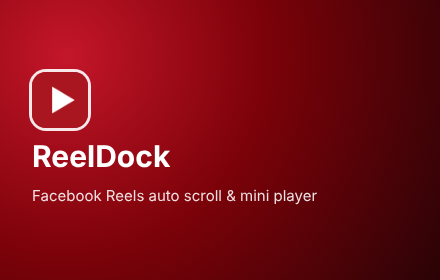
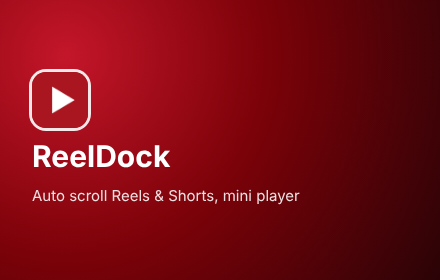
docs: add real-page store screenshots and drop Facebook-only wording

Changed region(s): [[0.0591, 0.6571, 0.7386, 0.7429]]

diff --git a/store-assets/compose.html b/store-assets/compose.html
@@ -1,7 +1,7 @@
 <!doctype html>
 <!--
     Store listing images, composed from the raw captures in ./raw (made by scripts/store-screenshots.mjs).
-    Open with ?shot=1|2|3|4|5|tile and screenshot at 1280×800 (tile: 440×280).
+    Open with ?shot=1|2|3|4|5|6|7|8|tile and screenshot at 1280×800 (tile: 440×280).
 -->
 <html lang="en">
     <head>
@@ -182,25 +182,26 @@
                     <img class="shot" src="raw/popup-dark-cropped.png" style="left:920px;top:150px;width:300px" />
                     ${brand}`,
                 4: (() => {
-                    // Show the right part of the captured Reels page inside a window, and ring the button.
-                    const crop = { x: 330, y: 20, width: 935 };
+                    // The right part of the real Facebook page (store-assets/real, 3600×2014), the button ringed.
+                    const button = { x: 3527, y: 1253, size: 92 };
                     const box = { left: 540, top: 90, width: 700, height: 600 };
+                    const crop = { x: 1450, width: 2150 };
                     const scale = box.width / crop.width;
-                    const { left, top, width, height } = window.LAUNCHER;
-                    const cx = box.left + (left + width / 2 - crop.x) * scale;
-                    const cy = box.top + (top + height / 2 - crop.y) * scale;
-                    const ring = width * scale + 26;
+                    crop.y = Math.round(button.y - box.height / scale / 2);
+                    const cx = box.left + (button.x - crop.x) * scale;
+                    const cy = box.top + (button.y - crop.y) * scale;
+                    const ring = button.size * scale + 26;
                     return `
                     <div class="copy">
                         <div class="eyebrow">Where to find it</div>
                         <h1>One click opens the mini player</h1>
-                        <p>On any Facebook Reel, click the button under the up and down arrows on the right.</p>
+                        <p>On any Reel or Short, click the button under the up and down arrows on the right.</p>
                     </div>
-                    <div class="work" style="left:${box.left}px;top:${box.top}px;width:${box.width}px;height:${box.height}px;background:#111">
-                        <img src="raw/reels-page.png" alt="" style="position:absolute;width:${1280 * scale}px;left:${-crop.x * scale}px;top:${-crop.y * scale}px" />
+                    <div class="work" style="left:${box.left}px;top:${box.top}px;width:${box.width}px;height:${box.height}px;background:#000">
+                        <img src="real/facebook.png" alt="" style="position:absolute;width:${3600 * scale}px;left:${-crop.x * scale}px;top:${-crop.y * scale}px" />
                     </div>
                     <div style="position:absolute;left:${cx - ring / 2}px;top:${cy - ring / 2}px;width:${ring}px;height:${ring}px;border:4px solid #fff;border-radius:50%;box-shadow:0 0 0 8px rgb(255 255 255 / 0.25)"></div>
-                    <div class="label" style="left:${cx - ring / 2 - 300}px;top:${cy - 20}px;font-size:17px;background:#fff;color:#7d0209;font-weight:600">Click here to open the mini player →</div>
+                    <div class="label" style="left:${cx - 330}px;top:${cy + ring / 2 + 18}px;font-size:17px;background:#fff;color:#7d0209;font-weight:600">Click here to open the mini player ↗</div>
                     ${brand}`;
                 })(),
                 5: (() => {
@@ -241,10 +242,41 @@
                         <img src="raw/icon-128.png" alt="" />ReelDock
                     </div>`;
                 })(),
+                // One real page per site (store-assets/real), the launch button ringed. Button centres were measured
+                // on the 3600×2014 page images.
+                ...Object.fromEntries(
+                    [
+                        ['6', 'Facebook Reels', 'facebook', 'logos/facebook-white.svg', 'Keeps playing in the background', 3527, 1253],
+                        ['7', 'YouTube Shorts', 'youtube', '../public/site-icons/youtube.svg', 'Next Short starts by itself', 3494, 1293],
+                        ['8', 'Instagram Reels', 'instagram', '../public/site-icons/instagram.svg', 'One click opens the mini player', 3477, 1185],
+                    ].map(([key, name, image, icon, title, bx, by]) => {
+                        const box = { left: 120, top: 160, width: 1040 };
+                        const scale = box.width / 3600;
+                        const height = Math.round(2014 * scale);
+                        const cx = box.left + bx * scale;
+                        const cy = box.top + 34 + by * scale;
+                        const ring = 54;
+                        return [
+                            key,
+                            `
+                    <div style="position:absolute;left:120px;top:42px;display:flex;align-items:center;gap:14px">
+                        <img src="${icon}" alt="" style="width:30px;height:30px" />
+                        <div class="eyebrow" style="margin:0">${name}</div>
+                    </div>
+                    <h1 style="position:absolute;left:120px;top:82px;margin:0;font-size:44px">${title}</h1>
+                    <div class="work" style="left:${box.left}px;top:${box.top}px;width:${box.width}px">
+                        <div class="bar"><i></i><i></i><i></i></div>
+                        <img src="real/${image}.png" alt="" style="display:block;width:${box.width}px;height:${height}px" />
+                    </div>
+                    <div style="position:absolute;left:${cx - ring / 2}px;top:${cy - ring / 2}px;width:${ring}px;height:${ring}px;border:4px solid #e0182d;border-radius:50%;box-shadow:0 0 0 6px rgb(224 24 45 / 0.3)"></div>
+                    <div class="label" style="left:${cx - ring / 2 - 210}px;top:${cy - 20}px;font-size:16px;background:#e0182d;color:#fff;font-weight:600">Mini player button →</div>`,
+                        ];
+                    }),
+                ),
                 tile: `
                     <img src="raw/icon-128.png" alt="" />
                     <h1>ReelDock</h1>
-                    <p>Facebook Reels auto scroll &amp; mini player</p>`,
+                    <p>Auto scroll Reels &amp; Shorts, mini player</p>`,
             };
 
             if (shot === 'tile') document.body.classList.add('tile');

diff --git a/docs/chrome-web-store.md b/docs/chrome-web-store.md
@@ -50,19 +50,22 @@ This extension is not affiliated with, endorsed by, or sponsored by Meta Platfor
 
 **Images (ready in `store-assets/final/`):**
 
-| File                        | Store field                                              |
-| --------------------------- | -------------------------------------------------------- |
-| `screenshot-1.png`          | Screenshot 1 (1280×800)                                  |
-| `screenshot-2.png`          | Screenshot 2 (1280×800)                                  |
-| `screenshot-3.png`          | Screenshot 3 (1280×800)                                  |
-| `screenshot-4.png`          | Screenshot 4 (1280×800): where the mini player button is |
-| `screenshot-5.png`          | Screenshot 5 (1280×800): works on Facebook, YouTube, Instagram |
-| `promo-tile-440x280.png`    | Small promo tile (440×280)                               |
-| `public/icons/icon-128.png` | Store icon (128×128)                                     |
+| Store field (upload in this order) | File                                                          |
+| ---------------------------------- | ------------------------------------------------------------- |
+| Screenshot 1                       | `screenshot-5.png`: works on Facebook, YouTube, Instagram     |
+| Screenshot 2                       | `screenshot-6.png`: real Facebook page, mini player button    |
+| Screenshot 3                       | `screenshot-7.png`: real YouTube Shorts page                  |
+| Screenshot 4                       | `screenshot-8.png`: real Instagram Reels page                 |
+| Screenshot 5                       | `screenshot-2.png`: the mini player                           |
+| Small promo tile (440×280)         | `promo-tile-440x280.png`                                      |
+| Store icon (128×128)               | `public/icons/icon-128.png`                                   |
+
+The Store takes at most 5 screenshots. `screenshot-1.png` (background playback), `screenshot-3.png` (popup) and
+`screenshot-4.png` (where the button is) are kept for later use; screenshots 6–8 cover the button on every site.
 
 They show our own demo videos (`store-assets/demo`), never real Facebook, YouTube or Instagram content. Screenshot 5 uses the real pages from our browser (`store-assets/real/`) with the video replaced by our demo Reel and personal details removed; the logos are the unmodified official SVGs (`public/site-icons`, `store-assets/logos`). To regenerate after a UI
 change: `CHROME_PATH=<Chrome for Testing> pnpm store:screenshots`, then render each image from
-`store-assets/compose.html?shot=1|2|3|4|5|tile` at its size, e.g.
+`store-assets/compose.html?shot=1|2|3|4|5|6|7|8|tile` at its size, e.g.
 `google-chrome --headless=new --window-size=1280,800 --screenshot=store-assets/final/screenshot-1.png "file://$PWD/store-assets/compose.html?shot=1"`.
 
 ## Privacy practices tab
